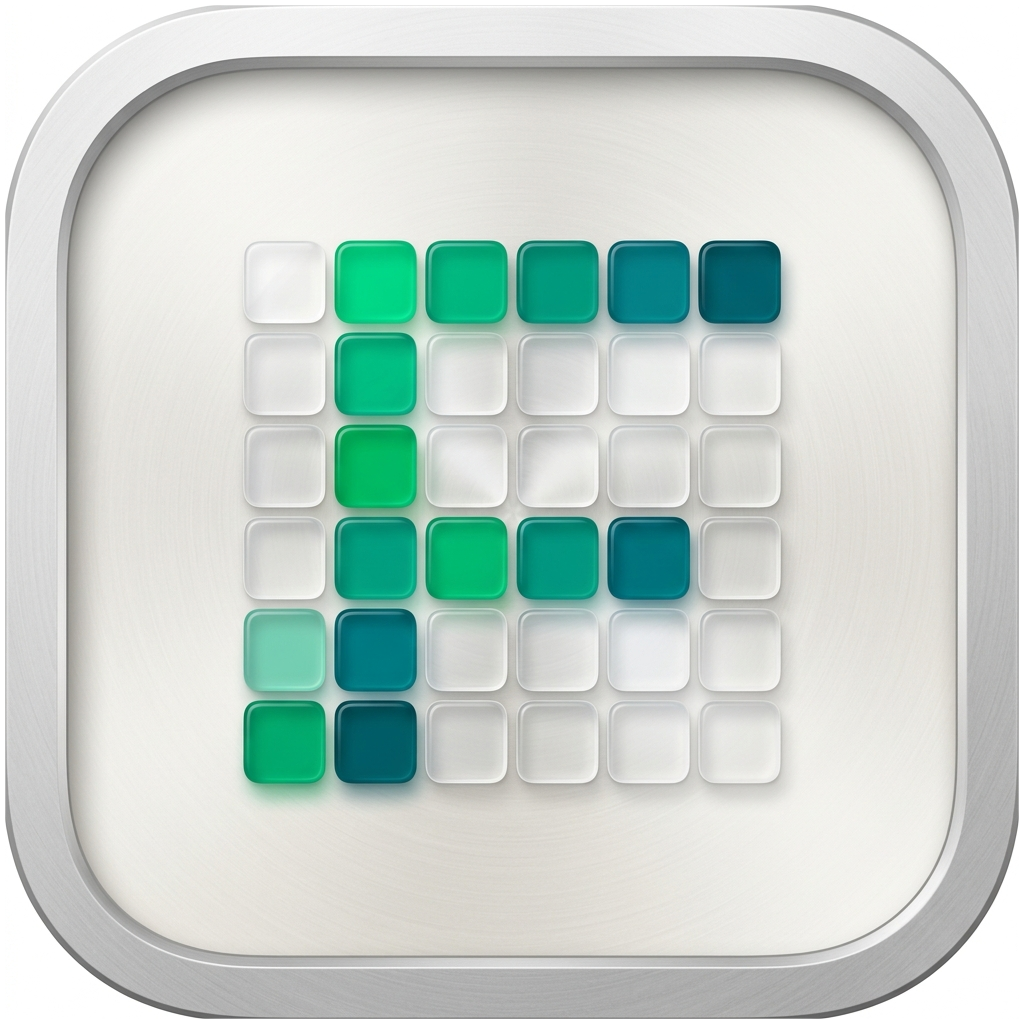
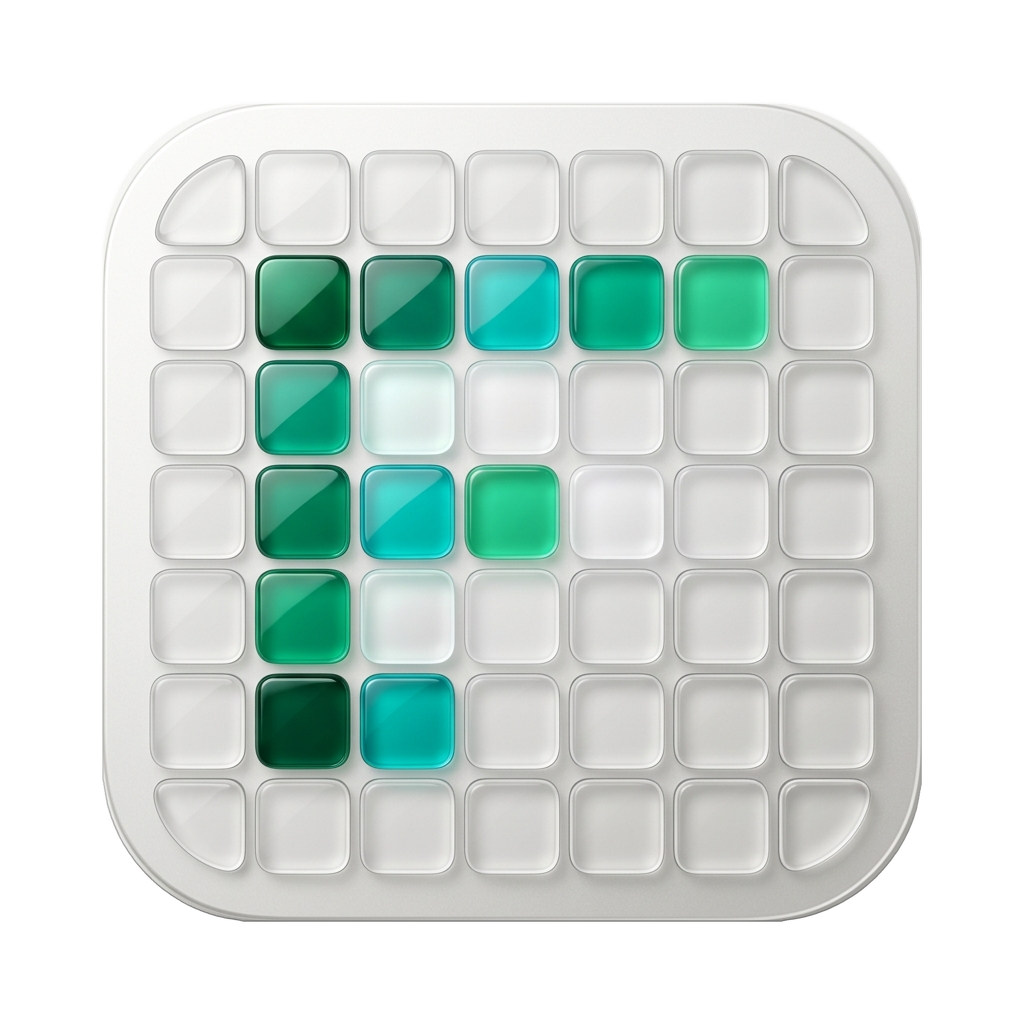
release: bump version to v0.3.2 and update README aesthetics

diff --git a/scripts/make_transparent.py b/scripts/make_transparent.py
@@ -1,83 +1,225 @@
 import os
-import sys
-from PIL import Image, ImageChops
+from PIL import Image, ImageDraw, ImageChops
 
-def make_transparent(img_path, out_path):
+def cubic_bezier(p0, p1, p2, p3, steps=30):
+    points = []
+    for i in range(steps + 1):
+        t = i / steps
+        x = (1-t)**3 * p0[0] + 3*(1-t)**2 * t * p1[0] + 3*(1-t) * t**2 * p2[0] + t**3 * p3[0]
+        y = (1-t)**3 * p0[1] + 3*(1-t)**2 * t * p1[1] + 3*(1-t) * t**2 * p2[1] + t**3 * p3[1]
+        points.append((x, y))
+    return points
+
+def generate_squircle_mask(size=1024, scale_factor=4):
+    """
+    Generates a mathematically perfect, anti-aliased macOS squircle mask.
+    Super-samples the vector path definition at high resolution and scales
+    it down using high-quality Lanczos resampling to achieve flawless edge anti-aliasing.
+    """
+    large_size = size * scale_factor
+    mask = Image.new("L", (large_size, large_size), 0)
+    draw = ImageDraw.Draw(mask)
+    
+    # 1. Base squircle path from the official vector assets/app-icon-dark.svg
+    vertices = []
+    
+    # M174.22 0 L850.754 0
+    vertices.append((174.22, 0))
+    vertices.append((850.754, 0))
+    
+    # C864.977 2.39104 875.796 4.29095 889.763 8.59805
+    vertices.extend(cubic_bezier((850.754, 0), (864.977, 2.39104), (875.796, 4.29095), (889.763, 8.59805)))
+    # C930.553 21.2544 965.987 47.0971 990.501 82.0699
+    vertices.extend(cubic_bezier((889.763, 8.59805), (930.553, 21.2544), (965.987, 47.0971), (990.501, 82.0699)))
+    # C1003.97 101.244 1013.73 122.773 1019.27 145.542
+    vertices.extend(cubic_bezier((990.501, 82.0699), (1003.97, 101.244), (1013.73, 122.773), (1019.27, 145.542)))
+    # C1020.95 152.68 1022.15 164.148 1024 170.155
+    vertices.extend(cubic_bezier((1019.27, 145.542), (1020.95, 152.68), (1022.15, 164.148), (1024, 170.155)))
+    
+    # L1024 852.733
+    vertices.append((1024, 852.733))
+    
+    # C1021.23 865.106 1020.16 877.182 1016.29 889.339
+    vertices.extend(cubic_bezier((1024, 852.733), (1021.23, 865.106), (1020.16, 877.182), (1016.29, 889.339)))
+    # C993.785 960.081 930.206 1014.24 856.048 1022.57
+    vertices.extend(cubic_bezier((1016.29, 889.339), (993.785, 960.081), (930.206, 1014.24), (856.048, 1022.57)))
+    # C853.815 1022.82 850.925 1023.34 848.781 1024
+    vertices.extend(cubic_bezier((856.048, 1022.57), (853.815, 1022.82), (850.925, 1023.34), (848.781, 1024)))
+    
+    # L175.622 1024
+    vertices.append((175.622, 1024))
+    
+    # C170.747 1022.44 156.998 1020.82 150.832 1019.49
+    vertices.extend(cubic_bezier((175.622, 1024), (170.747, 1022.44), (156.998, 1020.82), (150.832, 1019.49)))
+    # C129.157 1014.7 108.501 1006.1 89.8244 994.105
+    vertices.extend(cubic_bezier((150.832, 1019.49), (129.157, 1014.7), (108.501, 1006.1), (89.8244, 994.105)))
+    # C50.3102 968.655 21.4302 930.504 7.79391 885.391
+    vertices.extend(cubic_bezier((89.8244, 994.105), (50.3102, 968.655), (21.4302, 930.504), (7.79391, 885.391)))
+    # C3.65804 871.708 2.93576 859.785 0 846.258
+    vertices.extend(cubic_bezier((7.79391, 885.391), (3.65804, 871.708), (2.93576, 859.785), (0, 846.258)))
+    
+    # L0 177.716
+    vertices.append((0, 177.716))
+    
+    # C1.59147 172.71 3.35238 157.583 4.66099 151.222
+    vertices.extend(cubic_bezier((0, 177.716), (1.59147, 172.71), (3.35238, 157.583), (4.66099, 151.222)))
+    # C9.48764 128.179 18.6774 106.273 31.735 86.6826
+    vertices.extend(cubic_bezier((4.66099, 151.222), (9.48764, 128.179), (18.6774, 106.273), (31.735, 86.6826)))
+    # C58.0123 46.7943 98.6714 17.3211 144.837 5.72546
+    vertices.extend(cubic_bezier((31.735, 86.6826), (58.0123, 46.7943), (98.6714, 17.3211), (144.837, 5.72546)))
+    # C154.667 3.25625 164.36 2.0258 174.22 0
+    vertices.extend(cubic_bezier((144.837, 5.72546), (154.667, 3.25625), (164.36, 2.0258), (174.22, 0)))
+
+    # Apply translation (102.4, 102.4) and scale 0.8 to center squircle
+    # Then multiply by scale_factor for the super-sampling high-resolution canvas
+    transformed_vertices = []
+    for x, y in vertices:
+        tx = (102.4 + x * 0.8) * scale_factor
+        ty = (102.4 + y * 0.8) * scale_factor
+        transformed_vertices.append((tx, ty))
+        
+    # Draw filled polygon on the large high-res canvas
+    draw.polygon(transformed_vertices, fill=255)
+    
+    # Downscale with Lanczos for premium, ultra-smooth edges
+    try:
+        resample_filter = Image.Resampling.LANCZOS
+    except AttributeError:
+        resample_filter = Image.ANTIALIAS
+        
+    mask = mask.resize((size, size), resample=resample_filter)
+    return mask, transformed_vertices
+
+def get_gradient_color(y, size, is_dark):
+    """
+    Computes standard macOS-style 3D border gradient:
+    Highlight at the top (light reflecting), transition in the middle, and soft shadow at the bottom.
+    """
+    y_start = 102.4 * 4
+    y_end = 921.6 * 4
+    if y <= y_start:
+        t = 0.0
+    elif y >= y_end:
+        t = 1.0
+    else:
+        t = (y - y_start) / (y_end - y_start)
+        
+    if is_dark:
+        # Dark mode gradient: Light white-silver highlight at the top, transition to transparent gray, to dark black shadow at bottom
+        if t < 0.25:
+            k = t / 0.25
+            r, g, b = 255, 255, 255
+            a = int(140 * (1 - k) + 50 * k)
+        elif t < 0.75:
+            k = (t - 0.25) / 0.50
+            r = int(255 * (1 - k) + 0 * k)
+            g = int(255 * (1 - k) + 0 * k)
+            b = int(255 * (1 - k) + 0 * k)
+            a = int(50 * (1 - k) + 40 * k)
+        else:
+            k = (t - 0.75) / 0.25
+            r, g, b = 0, 0, 0
+            a = int(40 * (1 - k) + 160 * k)
+    else:
+        # Light mode gradient: Pure white highlight at the top, transitioning to subtle gray, to strong dark silver shadow at bottom
+        if t < 0.25:
+            k = t / 0.25
+            r, g, b = 255, 255, 255
+            a = int(200 * (1 - k) + 90 * k)
+        elif t < 0.75:
+            k = (t - 0.25) / 0.50
+            r = int(255 * (1 - k) + 160 * k)
+            g = int(255 * (1 - k) + 160 * k)
+            b = int(255 * (1 - k) + 160 * k)
+            a = 90
+        else:
+            k = (t - 0.75) / 0.25
+            r = int(160 * (1 - k) + 110 * k)
+            g = int(160 * (1 - k) + 110 * k)
+            b = int(160 * (1 - k) + 110 * k)
+            a = int(90 * (1 - k) + 190 * k)
+            
+    return (r, g, b, a)
+
+def generate_bezel_overlay(size, transformed_vertices, is_dark, scale_factor=4):
+    """
+    Renders a super-sampled vertical-gradient bezel/border overlay that runs exactly
+    on the squircle contour to simulate the 3D Apple App Icon border design.
+    """
+    large_size = size * scale_factor
+    
+    # 1. Create a 1D gradient strip and scale it to full width
+    gradient_strip = Image.new("RGBA", (1, large_size))
+    for y in range(large_size):
+        gradient_strip.putpixel((0, y), get_gradient_color(y, large_size, is_dark))
+    gradient = gradient_strip.resize((large_size, large_size))
+    
+    # 2. Draw outline on stroke mask
+    stroke_mask = Image.new("L", (large_size, large_size), 0)
+    draw_stroke = ImageDraw.Draw(stroke_mask)
+    
+    # At 1024x1024, a 1.5px border is extremely crisp and elegant.
+    # At 4x scale, this is 6.0px.
+    stroke_width = 6
+    draw_stroke.polygon(transformed_vertices, outline=255, width=stroke_width)
+    
+    # 3. Composite gradient using the outline mask
+    bezel_overlay = Image.new("RGBA", (large_size, large_size), (0, 0, 0, 0))
+    bezel_overlay = Image.composite(gradient, bezel_overlay, stroke_mask)
+    
+    # 4. Downsample with Lanczos to get mathematically perfect anti-aliasing
+    try:
+        resample_filter = Image.Resampling.LANCZOS
+    except AttributeError:
+        resample_filter = Image.ANTIALIAS
+        
+    bezel_overlay_1024 = bezel_overlay.resize((size, size), resample=resample_filter)
+    return bezel_overlay_1024
+
+def make_transparent(img_path, out_path, is_dark):
     img = Image.open(img_path).convert("RGBA")
     width, height = img.size
-    pixels = img.load()
     
-    # BFS to find background pixels
-    visited = set()
-    queue = []
+    # 1. Generate mathematically perfect squircle mask and high-res path vertices
+    mask, vertices = generate_squircle_mask(size=width)
     
-    # Seed queue with the borders (outer 5 pixels)
-    for x in range(width):
-        for y in range(5):
-            queue.append((x, y))
-            visited.add((x, y))
-            queue.append((x, height - 1 - y))
-            visited.add((x, height - 1 - y))
-    for y in range(height):
-        for x in range(5):
-            if (x, y) not in visited:
-                queue.append((x, y))
-                visited.add((x, y))
-            if (width - 1 - x, y) not in visited:
-                queue.append((width - 1 - x, y))
-                visited.add((width - 1 - x, y))
-                
-    threshold = 28 # Brightness threshold for black background
+    # 2. Apply initial squircle mask to the raw image (removes original block background)
+    r, g, b, a = img.split()
+    new_a = ImageChops.darker(a, mask)
+    masked_img = Image.merge("RGBA", (r, g, b, new_a))
     
-    background_pixels = set(queue)
-    head = 0
-    while head < len(queue):
-        x, y = queue[head]
-        head += 1
-        
-        for dx, dy in [(-1, 0), (1, 0), (0, -1), (0, 1)]:
-            nx, ny = x + dx, y + dy
-            if 0 <= nx < width and 0 <= ny < height and (nx, ny) not in visited:
-                r, g, b, a = pixels[nx, ny]
-                # If it is dark enough, it belongs to the background
-                # We use a threshold of 28 for RGB values
-                if r < threshold and g < threshold and b < threshold:
-                    visited.add((nx, ny))
-                    background_pixels.add((nx, ny))
-                    queue.append((nx, ny))
-                    
-    # Now we modify pixels
-    # For background pixels, we make them fully transparent.
-    # To avoid jagged edges, we can do a slight anti-aliasing:
-    # Any pixel on the boundary of the background and the foreground gets a semi-transparent alpha.
-    for x, y in background_pixels:
-        r, g, b, a = pixels[x, y]
-        pixels[x, y] = (0, 0, 0, 0)
-        
-    # Apply a gentle anti-aliasing on the edges
-    # We find all non-background pixels that have at least one background neighbor,
-    # and adjust their alpha to smooth the transition.
-    for x in range(1, width - 1):
-        for y in range(1, height - 1):
-            if (x, y) not in background_pixels:
-                # Count background neighbors
-                bg_neighbors = 0
-                for dx, dy in [(-1, 0), (1, 0), (0, -1), (0, 1), (-1, -1), (1, -1), (-1, 1), (1, 1)]:
-                    if (x + dx, y + dy) in background_pixels:
-                        bg_neighbors += 1
-                if bg_neighbors > 0:
-                    r, g, b, a = pixels[x, y]
-                    # Reduce alpha slightly based on background neighbors to anti-alias
-                    # If it has 8 bg neighbors, it is almost background (low alpha)
-                    # If it has 1, it is almost foreground (high alpha)
-                    new_a = int(a * (1.0 - 0.1 * bg_neighbors))
-                    pixels[x, y] = (r, g, b, max(0, new_a))
-                    
-    # Save the result
-    img.save(out_path, "PNG")
-    print(f"Transparency applied and saved to {out_path} successfully!")
+    # 3. Generate the 3D Apple-style gradient bezel stroke
+    bezel = generate_bezel_overlay(width, vertices, is_dark)
+    
+    # 4. Overlay the bezel stroke exactly on top of the squircle
+    composited_img = Image.alpha_composite(masked_img, bezel)
+    
+    # 5. Re-apply the squircle mask to trim the outer 50% of the bezel stroke
+    # This guarantees the background outside is 100% transparent and the border remains perfectly crisp inside.
+    cr, cg, cb, ca = composited_img.split()
+    final_a = ImageChops.darker(ca, mask)
+    final_img = Image.merge("RGBA", (cr, cg, cb, final_a))
+    
+    # Save the flawless, premium icon
+    final_img.save(out_path, "PNG")
+    print(f"Flawless 3D-beveled transparent squircle saved to {out_path} successfully!")
 
 if __name__ == "__main__":
-    make_transparent("assets/app-icon.png", "assets/app-icon.png")
-    if os.path.exists("assets/app-icon-light.png"):
-        make_transparent("assets/app-icon-light.png", "assets/app-icon-light.png")
+    # We load from the original raw enlarged templates in the artifacts directory to avoid accumulating alpha degradation
+    raw_dark = "/Users/stormix/.gemini/antigravity/brain/31f6911d-68df-433a-b949-05d480acecaf/ferrumgrid_icon_dark_enlarged_1779454847190.png"
+    raw_light = "/Users/stormix/.gemini/antigravity/brain/31f6911d-68df-433a-b949-05d480acecaf/ferrumgrid_icon_light_grid_enlarged_1779454822306.png"
+    
+    # Process Dark Mode Icon
+    if os.path.exists(raw_dark):
+        make_transparent(raw_dark, "assets/app-icon.png", is_dark=True)
+    else:
+        # Fallback if raw template isn't found
+        make_transparent("assets/app-icon.png", "assets/app-icon.png", is_dark=True)
+        
+    # Process Light Mode Icon
+    if os.path.exists(raw_light):
+        make_transparent(raw_light, "assets/app-icon-light.png", is_dark=False)
+    else:
+        # Fallback
+        if os.path.exists("assets/app-icon-light.png"):
+            make_transparent("assets/app-icon-light.png", "assets/app-icon-light.png", is_dark=False)

diff --git a/README.md b/README.md
@@ -1,21 +1,19 @@
 <div align="center">
 
-<img src="assets/app-icon-dark.svg#gh-dark-mode-only" width="128" alt="FerrumGrid"/>
-<img src="assets/app-icon-light.svg#gh-light-mode-only" width="128" alt="FerrumGrid"/>
+<img src="assets/app-icon.png#gh-dark-mode-only" width="128" alt="FerrumGrid"/>
+<img src="assets/app-icon-light.png#gh-light-mode-only" width="128" alt="FerrumGrid"/>
 
 # FerrumGrid
 
 **A native PostgreSQL desktop client, forged in Rust.**
-Fast like the metal it's named after. Beautiful like the tools you wish you had.
+Fast like the metal it's named after. Sexy like the tools you wish you had. Built with a stunning grid-structured interface.
 
-[![Release](https://img.shields.io/github/v/release/stormixus/FerrumGrid?style=for-the-badge&color=10b981&labelColor=171718)](https://github.com/stormixus/FerrumGrid/releases/latest)
+[![Release](https://img.shields.io/github/v/release/stormixus/FerrumGrid?style=for-the-badge&color=2ecba7&labelColor=171718)](https://github.com/stormixus/FerrumGrid/releases/latest)
 [![License](https://img.shields.io/badge/license-MIT-blue?style=for-the-badge&labelColor=171718)](LICENSE)
 [![Rust](https://img.shields.io/badge/Rust-1.75+-orange?style=for-the-badge&logo=rust&labelColor=171718)](https://www.rust-lang.org/)
 [![Platforms](https://img.shields.io/badge/macOS%20·%20Linux%20·%20Windows-supported-8b5cf6?style=for-the-badge&labelColor=171718)](#download)
 
 [**Download**](#download) · [**Quick Start**](#quick-start) · [**Why FerrumGrid?**](#why-ferrumgrid) · [**Roadmap**](#roadmap)
-
-<!-- TODO: replace with hero gif/screenshot at docs/hero.png -->
 
 </div>
 
@@ -77,12 +75,12 @@ PostgreSQL deserves a client that doesn't feel like a 2008 Java applet or a wrap
 
 ## Download
 
-Latest release: **[v0.3.1](https://github.com/stormixus/FerrumGrid/releases/latest)**
+Latest release: **[v0.3.2](https://github.com/stormixus/FerrumGrid/releases/latest)**
 
 | Platform | Installer | Archive |
 |---|---|---|
-| 🍎 **macOS** Apple Silicon | [.dmg](https://github.com/stormixus/FerrumGrid/releases/latest/download/FerrumGrid-0.3.1-aarch64-apple-darwin.dmg) | [.tar.xz](https://github.com/stormixus/FerrumGrid/releases/latest/download/ferrumgrid-aarch64-apple-darwin.tar.xz) |
-| 🍎 **macOS** Intel | [.dmg](https://github.com/stormixus/FerrumGrid/releases/latest/download/FerrumGrid-0.3.1-x86_64-apple-darwin.dmg) | [.tar.xz](https://github.com/stormixus/FerrumGrid/releases/latest/download/ferrumgrid-x86_64-apple-darwin.tar.xz) |
+| 🍎 **macOS** Apple Silicon | [.dmg](https://github.com/stormixus/FerrumGrid/releases/latest/download/FerrumGrid-0.3.2-aarch64-apple-darwin.dmg) | [.tar.xz](https://github.com/stormixus/FerrumGrid/releases/latest/download/ferrumgrid-aarch64-apple-darwin.tar.xz) |
+| 🍎 **macOS** Intel | [.dmg](https://github.com/stormixus/FerrumGrid/releases/latest/download/FerrumGrid-0.3.2-x86_64-apple-darwin.dmg) | [.tar.xz](https://github.com/stormixus/FerrumGrid/releases/latest/download/ferrumgrid-x86_64-apple-darwin.tar.xz) |
 | 🐧 **Linux** x86_64 | — | [.tar.xz](https://github.com/stormixus/FerrumGrid/releases/latest/download/ferrumgrid-x86_64-unknown-linux-gnu.tar.xz) |
 | 🪟 **Windows** x64 | [.msi](https://github.com/stormixus/FerrumGrid/releases/latest/download/ferrumgrid-x86_64-pc-windows-msvc.msi) | [.zip](https://github.com/stormixus/FerrumGrid/releases/latest/download/ferrumgrid-x86_64-pc-windows-msvc.zip) |
 

diff --git a/CHANGELOG.md b/CHANGELOG.md
@@ -2,6 +2,13 @@
 
 All notable changes to FerrumGrid will be documented in this file.
 
+## [0.3.2] - 2026-05-22
+
+### Added
+
+- Upgraded application icon set to a gorgeous, grid-structured 3D glassmorphic "F" shape. Replaced the old monotone icon with perfectly matched dark mode and light mode grid blocks featuring emerald green and teal neon-glow rounded squares.
+- Updated `generate-icns.sh` packaging tool to compile AppIcon assets directly from high-resolution raw PNG templates.
+
 ## [0.3.1] - 2026-05-09
 
 ### Fixed